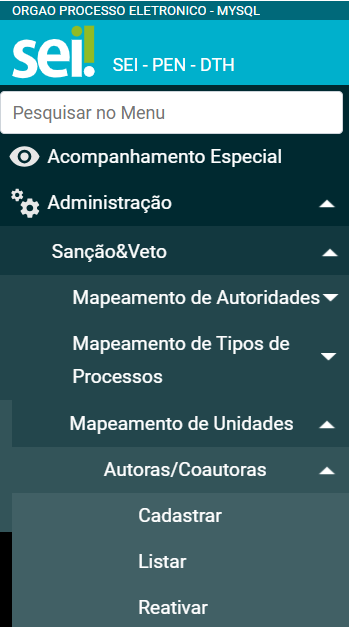
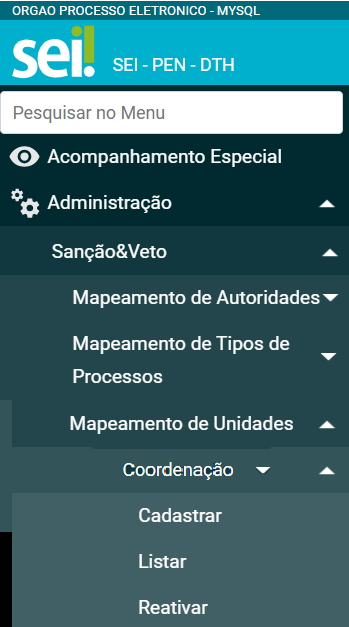
Correções pontuais
Correções pontuais

Changed region(s): [[0.2865, 0.7273, 0.7736, 0.7879]]

diff --git a/docs/source/MODULOS_SEI/SEI_Assina/Perguntas_Frequentes_FAQ/Carimbo_de_Tempo.rst b/docs/source/MODULOS_SEI/SEI_Assina/Perguntas_Frequentes_FAQ/Carimbo_de_Tempo.rst
@@ -2,17 +2,22 @@
 ==================
 
 
-
-
 6.1.	Quais são os benefícios de utilizar carimbo de tempo?
 -----------------------------------------------------------
+<<<<<<< HEAD
  
+=======
+>>>>>>> 5050f885a824b8ab48106f73f3a8d5d9275ba3d4
 O carimbo de tempo garante data e hora certificadas da assinatura e validade jurídica mesmo após expiração do certificado utilizado para assinar os documentos.
 
   
 6.2.	Como habilitar o carimbo de tempo?
 ----------------------------------------
+<<<<<<< HEAD
 As informações de como habilitar o carimbo de tempo estão disponíveis no Manual de Instalação.
+=======
+As informações de como habilitar o carimbo de tempo estão disponíveis no `Manual de Instalação <https://github.com/pengovbr/mod-sei-assinatura-eletronica/blob/release/1.4.0/docs/INSTALL.md#22-carimbo-de-tempo>`__.
+>>>>>>> 5050f885a824b8ab48106f73f3a8d5d9275ba3d4
 
     **OBS: As funcionalidades relacionadas ao Carimbo de Tempo estão disponíveis a partir da versão 1.4.0.**
 
@@ -21,26 +26,26 @@ As informações de como habilitar o carimbo de tempo estão disponíveis no Man
 ---------------------------------------------------------------------
 Atualmente, o GOV.BR, assinatura avançada, não possibilita realizar a assinatura utilizando um carimbo do tempo. Então, apenas para assinatura qualificada é possível utilizar esse recurso.
 
-    **OBS: As funcionalidades relacionadas ao Carimbo de Tempo estão disponíveis a partir da versão 1.4.0.**
+  **OBS: As funcionalidades relacionadas ao Carimbo de Tempo estão disponíveis a partir da versão 1.4.0.**
 
   
 6.4.	O carimbo de tempo está habilitado para qual tipo de documento?
 --------------------------------------------------------------------
 Após a configuração dos dados da Autoridade de Carimbo de Tempo, a utilização é habilitada tanto para documento interno quanto externo.
 
-    **OBS: As funcionalidades relacionadas ao Carimbo de Tempo estão disponíveis a partir da versão 1.4.0.**
+  **OBS: As funcionalidades relacionadas ao Carimbo de Tempo estão disponíveis a partir da versão 1.4.0.**
 
 
 6.5.	Onde eu consigo as credenciais da autoridade de carimbo de tempo?
 ----------------------------------------------------------------------
 Os dados para configurar a autoridade certificadora de carimbo de tempo são obtidas, após a contratação do serviço pelo órgão/entidade. 
 
-    **OBS: As funcionalidades relacionadas ao Carimbo de Tempo estão disponíveis a partir da versão 1.4.0.**
+  **OBS: As funcionalidades relacionadas ao Carimbo de Tempo estão disponíveis a partir da versão 1.4.0.**
 
 
 6.6.	A utilização do carimbo de tempo é obrigatória?
 ----------------------------------------------------
 A configuração do Carimbo de Tempo é desejável, mas não é obrigatória. Portanto, a ausência dessa contratação não impede o órgão/entidade de começar a utilizar o módulo em ambiente de produção.
 
-    **OBS: As funcionalidades relacionadas ao Carimbo de Tempo estão disponíveis a partir da versão 1.4.0.**
+  **OBS: As funcionalidades relacionadas ao Carimbo de Tempo estão disponíveis a partir da versão 1.4.0.**
 

diff --git a/docs/source/MODULOS_SEI/SEI_Assina/Perguntas_Frequentes_FAQ/Credenciais.rst b/docs/source/MODULOS_SEI/SEI_Assina/Perguntas_Frequentes_FAQ/Credenciais.rst
@@ -9,18 +9,6 @@
 O módulo depende de 3 credenciais principais, obtidas com dois órgãos diferentes:
 
 
-+--------------------------------------------------------+-----------------------------------------------------------------------------------------+  
-| Órgãos                                                 | Credenciais                                                                             |  
-+========================================================+=========================================================================================+
-| Secretaria de Governo Digital (SGD)                    | Credencial do Gov.br: Necessária para assinatura avançada via Gov.br.                   |
-+--------------------------------------------------------+-----------------------------------------------------------------------------------------+
-| Instituto Nacional de Tecnologia da Informação (ITI)   | API Validar: Permite consultar e validar assinaturas dentro de PDFs                     |
-|                                                        |                                                                                         | 
-|                                                        | Assinador de Referência (AssinaGov): Utilizada para realizar assinatura qualificada.    |
-+--------------------------------------------------------+-----------------------------------------------------------------------------------------+
-
-
-
 ===================================================== ======================================================================================
 Órgãos                                                  Credenciais                                                                               
 ===================================================== ======================================================================================
@@ -57,4 +45,8 @@ Após aprovação da solicitação de acesso ao módulo, as orientações de com
 
 3.5.	Como solicitar a credencial do AssinaGOV?
 -----------------------------------------------
+<<<<<<< HEAD
 Após aprovação da solicitação de acesso ao módulo, as orientações de como solicitar a credencial serão enviadas por meio de e-mail.
+=======
+Após aprovação da solicitação de acesso ao módulo, as orientações de como solicitar a credencial serão enviadas por meio de e-mail.
+>>>>>>> 5050f885a824b8ab48106f73f3a8d5d9275ba3d4

diff --git a/docs/source/MODULOS_SEI/SEI_Assina/Perguntas_Frequentes_FAQ/Certificado_Digital.rst b/docs/source/MODULOS_SEI/SEI_Assina/Perguntas_Frequentes_FAQ/Certificado_Digital.rst
@@ -2,11 +2,13 @@
 =====================
 
 
-
-
-
 4.1.	Quais sãos os certificados digitais aceitos para realizar a assinatura qualificada?
+<<<<<<< HEAD
 ----------------------------------------------------------------------------------------
+=======
+-----------------------------------------------------------------------------------------
+
+>>>>>>> 5050f885a824b8ab48106f73f3a8d5d9275ba3d4
 O módulo apenas aceita certificados emitidos pela ICP-Brasil. Alguns exemplos:
   
 
@@ -36,4 +38,8 @@ Não. Basta importar o arquivo PFX/P12 no momento da assinatura e digitar a sua 
   
 4.5.	O módulo reconhece assinaturas realizadas com certificados emitidos por outros países do Mercosul?
 -------------------------------------------------------------------------------------------------------
+<<<<<<< HEAD
 Sim.  A API Validar reconhece assinaturas padrão Mercosul e exibe selos especiais.
+=======
+Sim.  A API Validar reconhece assinaturas padrão Mercosul e exibe selos especiais.
+>>>>>>> 5050f885a824b8ab48106f73f3a8d5d9275ba3d4

diff --git a/docs/source/MODULOS_SEI/SEI_Assina/Perguntas_Frequentes_FAQ/Assinar_e_Validar.rst b/docs/source/MODULOS_SEI/SEI_Assina/Perguntas_Frequentes_FAQ/Assinar_e_Validar.rst
@@ -2,11 +2,8 @@
 ===================
 
 
-
-
-
-
 5.1.	Onde a assinatura é exibida no documento?
+-----------------------------------------------
 
 
 
@@ -33,6 +30,7 @@
 ------------------------------------------------------------
 Sim, o módulo permite que o documento externo seja assinado pelos usuários.
 
+  **OBS1: A assinatura de documento externo está apenas disponível a partir da versão 1.4.0.**
 
 
 5.3.	É possível assinar vários documentos com assinatura avançada ou qualificada?
@@ -44,7 +42,9 @@ Sim. O módulo permite realizar a assinatura de diversos documentos por meio do 
 ------------------------------------------------------------------------------------------------
 Não, a própria aplicação impede que seja colocado em um mesmo bloco documentos internos e externos. Logo, em um bloco de assinatura é apenas permitido um tipo de documento, interno ou externo.
     
+  **OBS1: A assinatura de documento externo está apenas disponível a partir da versão 1.4.0.**
 
+  **OBS2: Não é possível colocar documentos externos com assinatura anexada e destacada no mesmo bloco.**
   
 5.5.	Para quais tipos de documentos é permitida a assinatura destacada?
 ----------
@@ -62,13 +62,16 @@ Não, apenas usuários com contas no nível prata ou ouro conseguem realizar a a
 -----------
 O módulo possibilita que documentos externos sejam assinados por meio de bloco de assinatura.
 
+  **OBS1: A assinatura de documento externo está apenas disponível a partir da versão 1.4.0.**
 
+  **OBS2: É necessário entrar no bloco é realizar a assinatura de cada documento. Atualmente, não é possível assinar todos os documentos em lote.**
 
   
 5.8.	É possível assinar qualquer tipo de documento externo?
 ------------------------------------------------------------
 Não, o módulo apenas permite a assinatura de documentos externos no formato Portable Document File (PDF).
 
+  **OBS1: A assinatura de documento externo está apenas disponível a partir da versão 1.4.0.**
 
   
 5.9.	A funcionalidade para assinar todas as páginas está habilitada para documento externo com assinatura anexada?

diff --git a/docs/source/MODULOS_SEI/SEI_Assina/Perguntas_Frequentes_FAQ/Usuario_Externo.rst b/docs/source/MODULOS_SEI/SEI_Assina/Perguntas_Frequentes_FAQ/Usuario_Externo.rst
@@ -2,8 +2,6 @@
 =================
 
 
-
-
 7.1.	O usuário externo pode assinar documentos internos utilizando assinatura qualificada e avançada?
 -----------------------------------------------------------------------------------------------------
 A partir da versão 1.3.0, o usuário externo pode assinar documentos internos utilizando assinatura avançada (GOV.BR) e e qualificada (Certificado A3 em Nuvem e Token A1).
@@ -18,6 +16,6 @@ A partir da versão 1.4.0, o usuário externo pode assinar documentos externos u
 --------------------------------------------------------------------
 A utilização do carimbo de tempo pelos usuários externos é habilitada pelos Administradores do SEI.
 
-    **OBS: As funcionalidades relacionadas ao Carimbo de Tempo estão disponíveis a partir da versão 1.4.0.**
+  **OBS1: As funcionalidades relacionadas ao Carimbo de Tempo estão disponíveis a partir da versão 1.4.0.**
 
 